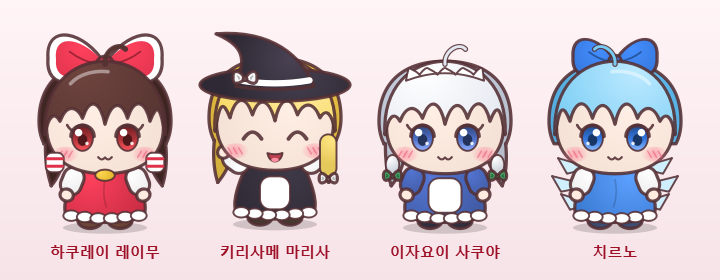
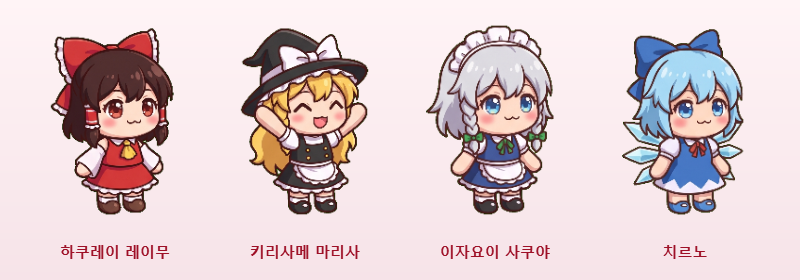
마리사·사쿠야·치르노 AI 그림 적용 + 시트 가져오기 개선
- 배경 제거를 가장자리에서 이어진 초록만 지우는 방식으로 바꿈:
  캐릭터 안의 초록(사쿠야 리본)은 남고, 갇힌 배경 틈은 순수 배경색만 지움
- 캐릭터끼리 닿아 한 덩어리로 잡히면(마리사 모자 챙) 가장 가는 세로줄에서 나눔
- 네 캐릭터 모두 Gemini 그림 11자세, README 이미지 갱신

diff --git a/tools/import_sheet.py b/tools/import_sheet.py
@@ -35,23 +35,60 @@ _qt_app = None
 
 
 def chroma_key(src: QImage) -> QImage:
-    """초록이 다른 색보다 확실히 강한 픽셀을 투명하게. 가장자리는 반투명 + 초록 번짐 제거."""
+    """초록 배경을 투명하게. 캐릭터 안의 초록(사쿠야 리본 등)은 남긴다.
+
+    1. 그림 가장자리에서 이어진 '초록 계열' 픽셀만 배경으로 (윤곽선 안쪽의 초록 옷·리본은 닿지 않음)
+    2. 윤곽선에 갇힌 배경 틈(팔과 몸 사이 등)은 배경색과 거의 같은 '순수한 초록'만 추가로 배경 처리
+    3. 배경 바로 옆 픽셀만 초록 번짐을 눌러줌 (안쪽 초록 색은 건드리지 않음)
+    """
     src = src.convertToFormat(QImage.Format_ARGB32)
     w, h = src.width(), src.height()
+    n = w * h
     data = bytearray(bytes(src.constBits()))  # BGRA
-    for i in range(0, len(data), 4):
+    spill = bytearray(n)       # 초록이 r·b 보다 얼마나 센지 (0~255)
+    loose = bytearray(n)       # 배경이거나 배경과 섞인 가장자리일 수 있음
+    bg = bytearray(n)
+    for k in range(n):
+        i = k * 4
         b, g, r = data[i], data[i + 1], data[i + 2]
         m = r if r > b else b
-        spill = g - m
-        if g > 100 and spill > 60:
-            data[i + 3] = max(0, 255 - min(255, spill * 3))
+        s = g - m
+        if s > 0:
+            spill[k] = s
+            if g > 100 and s > 60:
+                loose[k] = 1
+                if g > 170 and r < 110 and b < 110 and s > 120:
+                    bg[k] = 1          # 순수한 배경색 → 갇힌 틈이어도 배경
+    # 1. 가장자리에서 flood fill
+    q = deque(k for k in list(range(w)) + list(range(n - w, n)) + list(range(0, n, w)) + list(range(w - 1, n, w))
+              if loose[k])
+    for k in q:
+        bg[k] = 3
+    while q:
+        k = q.popleft()
+        x = k % w
+        for nk in (k - w, k + w, k - 1 if x else -1, k + 1 if x < w - 1 else -1):
+            if 0 <= nk < n and loose[nk] and not (bg[nk] & 2):
+                bg[nk] = 3             # 1 = 배경, 2 = 방문함
+                q.append(nk)
+    # 2·3. 배경은 투명하게, 배경 바로 옆은 초록 번짐만 제거
+    for k in range(n):
+        s = spill[k]
+        if bg[k]:
+            i = k * 4
+            m = max(data[i], data[i + 2])
+            data[i + 3] = max(0, 255 - min(255, s * 3))
             data[i + 1] = m
-        elif spill > 20:          # 초록빛이 살짝 도는 윤곽 → 초록만 눌러줌
-            data[i + 1] = m + 20
+        elif s > 20:
+            x = k % w
+            if ((k >= w and bg[k - w]) or (k + w < n and bg[k + w])
+                    or (x and bg[k - 1]) or (x < w - 1 and bg[k + 1])):
+                i = k * 4
+                data[i + 1] = max(data[i], data[i + 2]) + 20
     return QImage(bytes(data), w, h, QImage.Format_ARGB32).copy()
 
 
-def find_blobs(img: QImage):
+def find_blobs(img: QImage, expected: int | None = None):
     """불투명한 덩어리(캐릭터)들을 읽는 순서로.
 
     돌려주는 값: ([(경계 상자 (x0, y0, x1, y1), 라벨)...], 격자 라벨 배열, 격자 폭)
@@ -108,6 +145,8 @@ def find_blobs(img: QImage):
         remap[c[5]] = tgt[5]
     if remap:
         labels = [remap.get(v, v) for v in labels]
+    if expected:
+        _split_touching(main, labels, gw, expected, next_label=max(c[5] for c in comps) + 1)
     blobs = [((c[0] * GRID, c[1] * GRID, min(w, (c[2] + 1) * GRID), min(h, (c[3] + 1) * GRID)), c[5])
              for c in main]
     # 읽는 순서: 줄(가운데 y가 비슷한 것끼리) → 줄 안에서 왼쪽부터
@@ -123,6 +162,40 @@ def find_blobs(img: QImage):
             row.append(b)
     rows.append(row)
     return [b for r in rows for b in sorted(r, key=lambda b: b[0][0])], labels, gw
+
+
+def _split_touching(main: list, labels: list, gw: int, expected: int, next_label: int) -> None:
+    """캐릭터끼리 닿아서(모자 챙 등) 한 덩어리로 잡혔을 때: 기대 개수가 될 때까지
+    유난히 넓은 덩어리를 가운데 30~70% 구간에서 가장 가는 세로줄로 잘라 둘로 나눈다."""
+    while len(main) < expected:
+        widths = sorted(c[2] - c[0] + 1 for c in main)
+        med_w = widths[len(widths) // 2]
+        wide = max(main, key=lambda c: c[2] - c[0])
+        x0, y0, x1, y1, _, lab = wide
+        if x1 - x0 + 1 < med_w * 1.5:
+            print("붙은 캐릭터를 더 나눌 수 없습니다 (유난히 넓은 덩어리 없음)")
+            return
+        span = x1 - x0
+
+        def thickness(x: int) -> int:
+            return sum(1 for y in range(y0, y1 + 1) if labels[y * gw + x] == lab)
+
+        cut = min(range(x0 + span * 3 // 10, x0 + span * 7 // 10 + 1), key=thickness)
+        parts = {lab: [10 ** 9, 10 ** 9, -1, -1, 0], next_label: [10 ** 9, 10 ** 9, -1, -1, 0]}
+        for y in range(y0, y1 + 1):
+            for x in range(x0, x1 + 1):
+                k = y * gw + x
+                if labels[k] != lab:
+                    continue
+                if x >= cut:
+                    labels[k] = next_label
+                b = parts[labels[k]]
+                b[0], b[1], b[2], b[3] = min(b[0], x), min(b[1], y), max(b[2], x), max(b[3], y)
+                b[4] += 1
+        main.remove(wide)
+        main.extend([*b, key] for key, b in parts.items())
+        print(f"붙어 있던 캐릭터를 나눔 (세로줄 x={cut * GRID})")
+        next_label += 1
 
 
 def tight(img: QImage, blob, labels, gw) -> tuple[QImage, float]:
@@ -186,9 +259,10 @@ def main() -> int:
         print(f"그림을 읽지 못했습니다: {args.sheet}")
         return 1
     keyed = chroma_key(src)
-    blobs, labels, gw = find_blobs(keyed)
+    wanted = [n.strip() for n in args.names.split(",")] if args.names else None
+    blobs, labels, gw = find_blobs(keyed, expected=len(wanted) if wanted else None)
     print(f"캐릭터 {len(blobs)}개 찾음")
-    names = [n.strip() for n in args.names.split(",")] if args.names else [f"frame_{i + 1}" for i in range(len(blobs))]
+    names = wanted or [f"frame_{i + 1}" for i in range(len(blobs))]
     if len(names) != len(blobs):
         print(f"이름 {len(names)}개와 찾은 캐릭터 {len(blobs)}개의 수가 다릅니다. 미리보기를 보고 다시 지정하세요.")
         names = [f"frame_{i + 1}" for i in range(len(blobs))]
